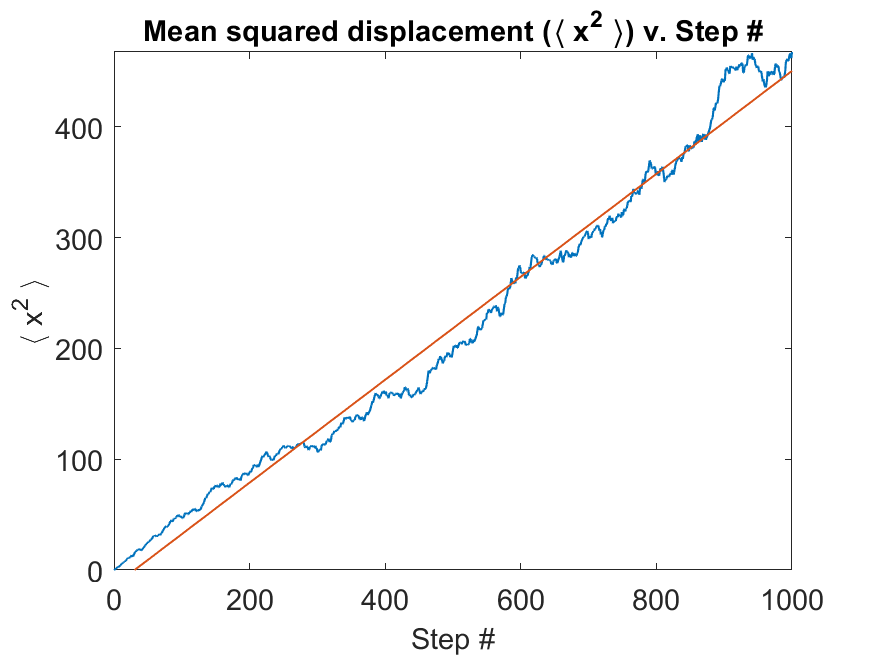
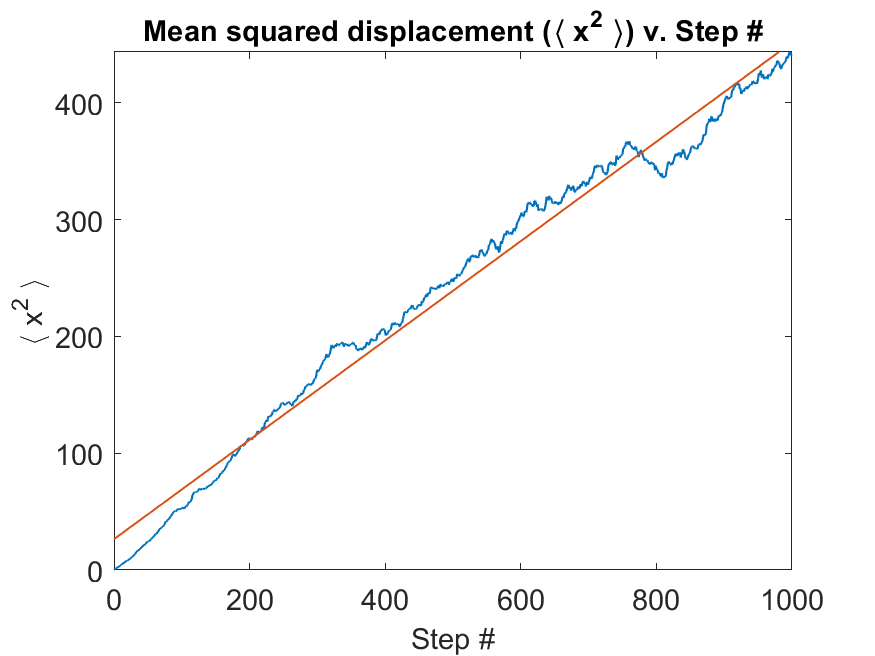
Added 2D random walk to Brownian motion

diff --git a/Brownian Motion/walk2Danalysis.m b/Brownian Motion/walk2Danalysis.m
@@ -1,0 +1,58 @@
+% Runs 100 simulations of 2D walks of 1000 steps each, then does the
+% following:
+%  (1) Calculates the mean final displacement and mean final squared
+%      displacement
+%  (2) Plots the mean displacement as a function of the number of steps
+%  (3) Plots the mean squared displacement as a function of the number of
+%      steps
+% It prints (1) to the command window, while saving (2),(3) as images.
+
+simulations = 100;
+startpos = [0,0];
+steps = 1000;
+stepsize = 1;
+
+% Run the simulations
+xs = zeros(simulations,steps+1);
+for i = 1:simulations
+    pos = walk2D(startpos, steps, stepsize);
+    xs(i,:) = sqrt(pos(:,1).^2+pos(:,2).^2);
+end
+% Calculate the mean distance and mean square distance at every step #
+xmean = mean(xs);
+xsqmean = mean(xs.^2);
+
+% Print the mean final displacement and mean final squared displacement
+disp("Mean Final Displacement: " + xmean(end));
+disp("Mean Final Squared Displacement: " + xsqmean(end));
+
+% Plot the mean displacement as a function of the number of steps
+plot(0:steps,xmean,'LineWidth',1);
+format(gcf,"Mean displacement (\langle x \rangle) v. Step #",...
+    "Step #","\langle x \rangle",[0,steps],[-50,50]);
+saveas(gcf,"plots/xmean.png");
+
+% Plot the mean squared displacement as a function of the number of steps
+plot(0:steps,xsqmean,'LineWidth',1);
+% Calculate the linear regression and plot that, too
+tb = table((0:steps)',(xsqmean)');
+lm = fitlm(tb,'linear');
+coeffs = lm.Coefficients.Estimate;
+hold on
+plot(0:steps,coeffs(2)*(0:steps)+coeffs(1),'LineWidth',1);
+hold off
+disp(lm);
+format(gcf,"Mean squared displacement (\langle x^2 \rangle) v. Step #",...
+    "Step #","\langle x^2 \rangle",[0,steps],[0,max(xsqmean)]);
+saveas(gcf,"plots/xsqmean.png");
+
+% A function that whitens the figure background and sets the font sizes
+function format(fig, title_arg, xlabel_arg, ylabel_arg, xlim_arg, ylim_arg)
+    title(title_arg);
+    xlabel(xlabel_arg);
+    ylabel(ylabel_arg);
+    xlim(xlim_arg);
+    ylim(ylim_arg);
+    set(findall(fig,'-property','FontSize'),'FontSize',14);
+    set(fig,'color','w');
+end

diff --git a/Brownian Motion/walk2Dvisual.m b/Brownian Motion/walk2Dvisual.m
@@ -1,0 +1,25 @@
+% Provides a visual simulations of a random walk in 1-dimension.
+% If animate=true, shows an animation. If false, just shows the final
+% result instantly.
+animate = true;
+
+startpos = [0,0];
+steps = 1000;
+stepsize = 1;
+path = walk2D(startpos, steps, stepsize);
+
+for i = 1:steps
+    if (animate || i == steps)
+        plot(path(1:i,1),path(1:i,2),'k--');
+        hold on
+        plot(path(i,1),path(i,2),'r.','MarkerSize',20);
+        hold off
+        title("2D Random Walk");
+        xlabel("Step #");
+        ylabel("Position");
+        xlim([min(path(:,1)),max(path(:,1))]);
+        ylim([min(path(:,2)),max(path(:,2))]);
+        set(gcf,'color','w');
+        pause(0.01);
+    end
+end

diff --git a/Brownian Motion/walk2D.m b/Brownian Motion/walk2D.m
@@ -1,0 +1,13 @@
+% Simulates a 2-dimensional random walk that starts at `startpos` and walks
+% `steps` steps of length `stepsize`. Returns an array `path` listing all
+% the positions it visited through during the walk.
+
+function path = walk2D(startpos, steps, stepsize)
+    path = startpos;
+    for i = 1:steps
+        dir = round(rand+1); % rand picks horizontal (1) or vertical (2)
+        pm1 = round(rand*2-1); % rand picks -1 or 1
+        startpos(dir) = startpos(dir) + stepsize*pm1;
+        path = [path; startpos];
+    end
+end
